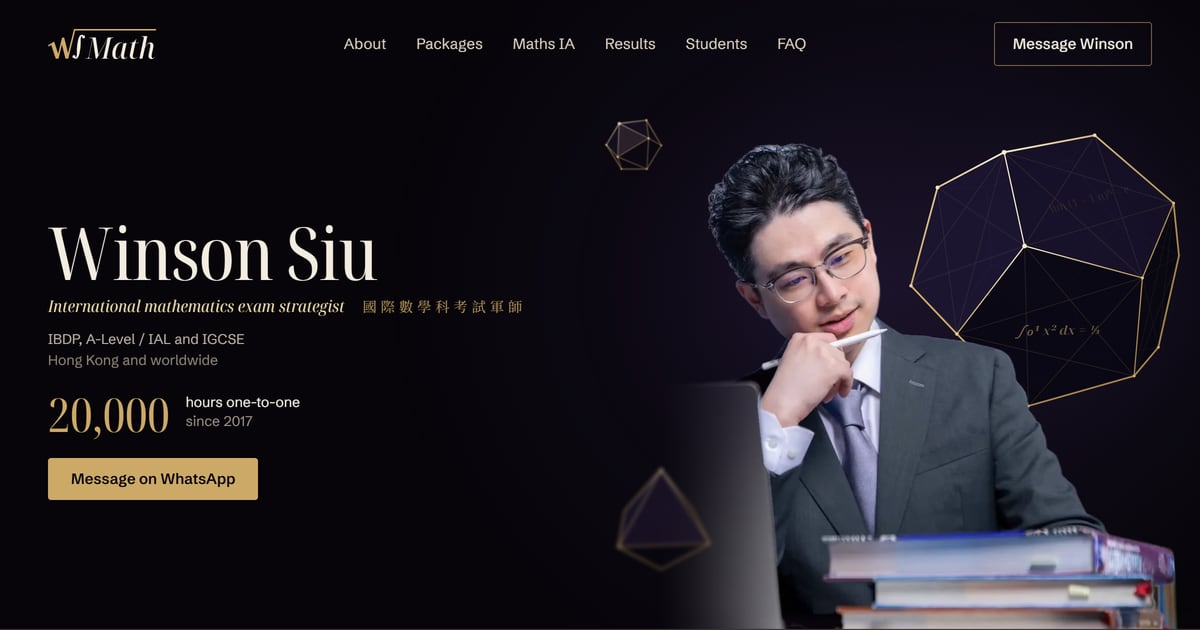
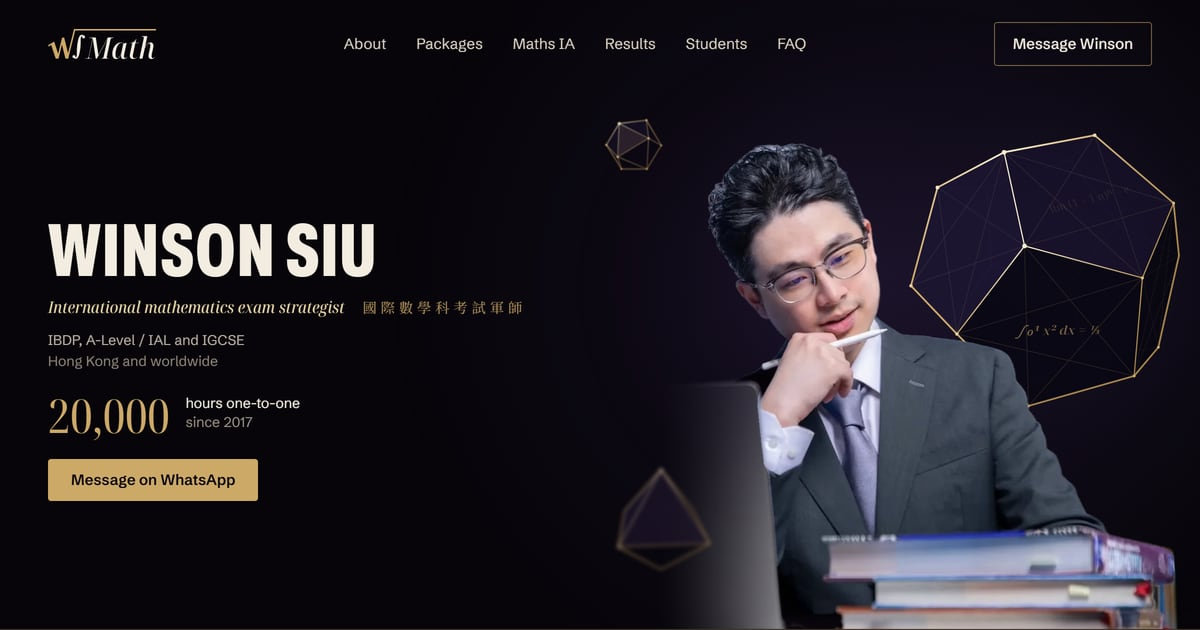
Set the hero name in Archivo Condensed ExtraBold
Winson asked for a stronger, more rigid, cooler name than the reference's Noto
Serif Display; Xini chose option B of eight faces rendered in the live hero
(2026-10-23). This departs from the reference design at his request.

- Capitals via CSS. The h1 carries the name as its aria-label, since Chrome
  passes the capitalised text to screen readers.
- Sizes are the reference's x1.03, the width the serif name took, so the hero
  layout is unchanged (checked at 20 screen sizes).
- The face is a static instance at width 62 holding only the name's letters
  (1.5 KB, inlined into the page), built by `npm run font:name`
  (scripts/name-font.mjs, new dev dependency subset-font). Google's variable
  Archivo drew overlapping letters in WebKit. HERO_NAME lives in lib/site.ts,
  and the build fails if the name outgrows the face.
- og.jpg re-rendered from the new hero.

diff --git a/src/lib/site.ts b/src/lib/site.ts
@@ -3,6 +3,9 @@
 export const WHATSAPP = 'https://wa.me/85269447214';
 export const GOLD = '#CDA968';
 
+/* The hero's h1. Its face holds exactly these letters: after changing it, run npm run font:name (scripts/name-font.mjs). */
+export const HERO_NAME = 'Winson Siu';
+
 /* The hero photo is the LCP element: Hero.astro renders it and Base.astro preloads the same AVIF candidates. */
 export const HERO_WIDTHS = [480, 720, 880, 1080];
 export const HERO_SIZES = '(max-aspect-ratio: 17/20) 100vw, (max-width: 1200px) 70vw, 1080px';
